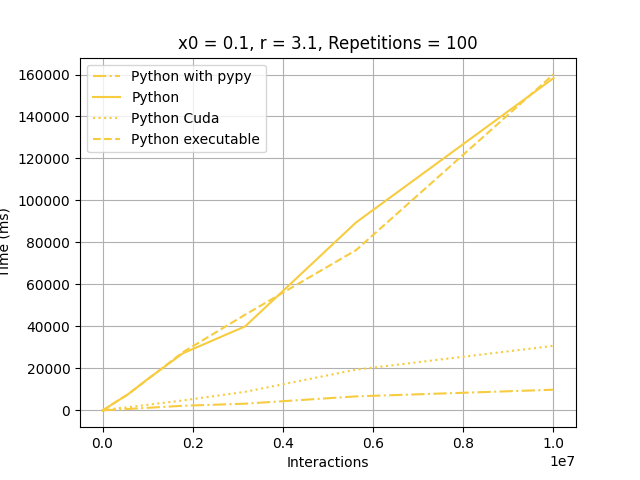
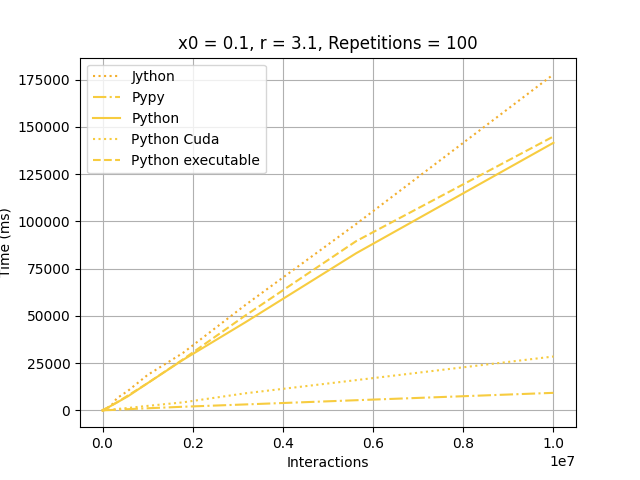
Using Jython
main file changed to allow compatibility between Python 3 and Jython 2.7

diff --git a/languages/python-logistic-benchmark/main.py b/languages/python-logistic-benchmark/main.py
@@ -31,14 +31,14 @@ def repeat_action(x0, r, it, repetitions):
 
     t0 = time.time()
     for i in range(0, repetitions):
-        print(f'\r{i + 1}\t/\t{repetitions}', end="", flush=True)
+        print("\r{0}\t/\t{1}".format((i + 1), repetitions))
         times[i] = calculate(x0, r, it)[1]
     deltaT = int((time.time() - t0) * 1000)
     print()
 
     average = sum(times) / len(times)
 
-    print(f'AVERAGE: {average} ms')
+    print("AVERAGE: {0} ms".format(average))
     print("TOTAL_TIME " + str(deltaT))
 
 

diff --git a/languages/python-logistic-benchmark/README.md b/languages/python-logistic-benchmark/README.md
@@ -3,6 +3,7 @@
 ## Development Environment
   - [Python](https://www.python.org/) [3.10.1](https://www.python.org/downloads/release/python-3101/)
   - [PyPy](https://www.pypy.org/) [3.9](https://www.pypy.org/download.html)
+  - [Jython](https://www.jython.org) [2.7.3](https://www.jython.org/download)
   - VS Code
 
 ## Highlights
@@ -12,6 +13,9 @@ It was possible to use a list with predetermined size. However at the end it was
 
 ### [Basic script with Pypy](./main.py)
 Instead using basic CPython, it was running with [Pypy](https://www.pypy.org/index.html). This time, for it executed much faster thanks to JIT compiler.
+
+### [Basic script with Jython](./main.py)
+Instead using basic CPython, it was running with [Jython](https://www.jython.org/index). The final time was bit bigger than executable. Also I realized that it consumes a bit more of CPU.
 
 ### [Native Executable](./setup.py)
 Creates a native executable from Basic Script. The time as practically the same as basic script.
